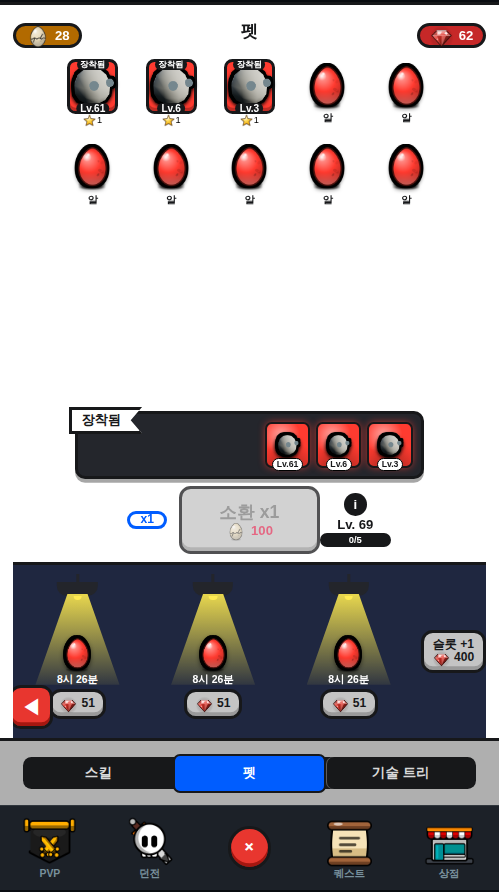
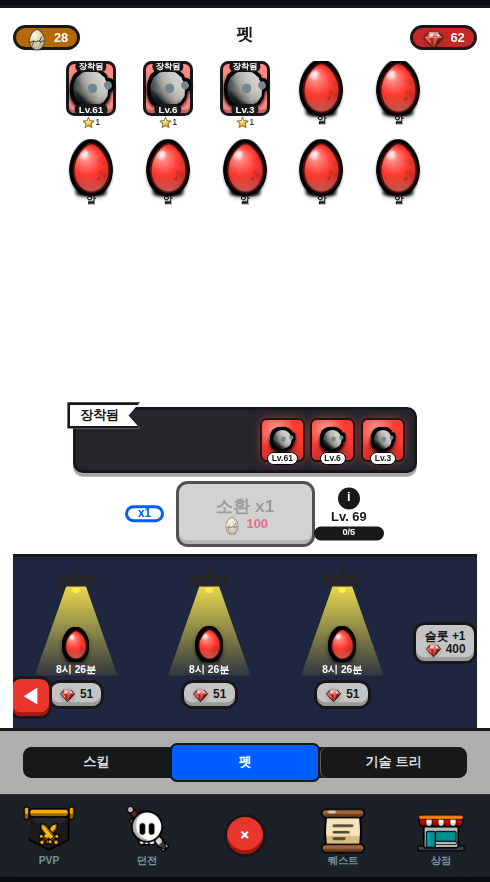
펫 화면 AAA 스킨 ⑪ — 타일 면을 등급색 원색에서 원본의 '등급색 60% + 흰색' 으로
원본 shot-042356 타일 면은 #ff7777 인데 같은 원본의 소환확률 팝업(shot-042521) '궁극의'
막대는 #ff1c1c 다 — 타일 면은 등급 원색이 아니라 60% + 흰색 40% 로 밝힌 색이고,
R·G·B 세 채널 모두 같은 계수로 떨어진다. 클론은 원색을 그대로 깔아 어두운 크리처가 묻혔다.
장비 셀이 이미 같은 방식(믹스 58%)이라 화풍도 일관된다.

남은 잔차(클론 #ff8983 vs 원본 #ff7777)는 RARITY_CSS 자체가 원본과 다른 탓이라
등급 6색 실측값을 새 QA 항목 rarity-css-exact 로 등재했다(원본 6색이 전부 한 채널 0x1c 로
떨어지는 규칙적 팔레트라 우연이 아니다).

회귀: probe-pets-dom.js 18요소 PASS 유지 · probe-screens-errors.js 31/31 콘솔 에러 0건.

Claude-Session: https://claude.ai/code/session_01HdN1cE1TqxDSVzRaZeswUW

diff --git a/web/css/style.css b/web/css/style.css
@@ -2807,7 +2807,12 @@ body {
 .pet-tile { background: none; border: none; padding: 0; cursor: pointer; display: flex; flex-direction: column; align-items: center; gap: .1rem; }
 .pet-tile .tile-face {
     position: relative; width: 100%; aspect-ratio: 1; border-radius: .5rem;
-    border: var(--ol3) solid var(--pp-line); background: var(--rc, #ccc);
+    border: var(--ol3) solid var(--pp-line);
+    /* 원본(shot-042356)의 타일 면은 **등급색 원색이 아니라 흰색을 섞어 밝힌 색**이다.
+       실측: 타일 면 #ff7777 vs 같은 원본의 소환확률 팝업(shot-042521) '궁극의' 막대 #ff1c1c
+       → R·G·B 세 채널 모두 정확히 **등급색 60% + 흰색 40%** 로 떨어진다(우연으로 보기 어렵다).
+       클론은 원색을 그대로 깔아 어두운 크리처가 배경에 묻혔다. 장비 셀도 이미 같은 방식(믹스 58%). */
+    background: color-mix(in srgb, var(--rc, #ccc) 60%, #fff);
     display: flex; align-items: center; justify-content: center; font-size: 1.4rem;
     box-shadow: inset 0 -.2rem 0 rgba(0,0,0,.25);
 }

diff --git a/web/TODO.md b/web/TODO.md
@@ -298,6 +298,7 @@
 
 ### 🐛 QA 발견 버그
 
+- [ ] **등급 6색이 원본 소환확률 팝업 실측값과 미세하게 다르다 — `RARITY_CSS` 를 원본 픽셀값으로 교체 (slug: rarity-css-exact)** (2026-08-18 `aaa-skin` ⑪ 펫 화면 작업 중 실측 발견, **비채점**): '등급/시대 색 전 화면 통일' 항목이 정한 기준은 **소환 확률 팝업에 표시된 색**인데, 그 팝업(원본 `shot-042521`)의 막대를 실제로 재 보니 클론 `RARITY_CSS` 와 채널마다 10~30 어긋난다. **원본 실측(막대 중앙 x=200)**: 일반 `#e0e0e0`(클론 `#d6d6d6`) · 희귀한 `#1cafff`(클론 `#29b6f6`) · 서사시 `#1cff41`(클론 `#3ddc50`) · 전설 `#f8ff1c`(클론 `#ffe93d`) · 궁극의 `#ff1c1c`(클론 `#ff3b30`) · 신화 `#aa1cff`(클론 `#b23dff`). 원본 6색이 전부 **한 채널이 0x1c** 로 떨어지는 규칙적인 팔레트라 우연이 아니다. **영향 범위가 넓다** — `RARITY_CSS` 는 스킬 오브·펫/탈것 타일·상세 카드·확률 팝업이 모두 쓰므로 화면마다 파생색(예: 펫 타일 면 = 등급색 60% + 흰색 40%)이 같이 움직인다. 그래서 **색만 바꾸고 끝내지 말고** 관련 화면을 다시 캡처해 파생색까지 확인할 것. **선행 조건**: `aaa-skin`·`ui-ratio-audit` 처럼 픽셀을 재는 항목과 같은 파일을 건드리므로 그 락이 비어 있을 때 잡을 것. **검증**: `tools/probe-tone.js` 로 ⑴ 확률 팝업 6막대가 원본값과 일치 ⑵ 펫 타일 면이 `#ff7777`(원본)에 수렴 ⑶ `probe-screens-errors.js` 31/31 콘솔 에러 0건.
 (2026-08-18 **QA 18차** 플레이 테스트 세션 — **신규 버그 0건**. Playwright 1.56.1 + `executablePath:'/opt/pw-browsers/chromium'`(build 1194) + `--use-gl=angle --enable-unsafe-swiftshader`, `file://` 구동, 주 뷰포트 430×860(앱 실측 430×764) + 320×568 · 360×640 · 390×844 · 1200×2133 교차, 프로브 15종·브라우저 런 25회. **수행 내역**: 새 세이브 부팅 후 30초 전투 5초 관찰(스폰 2→11·1-1→1-2 전진 정상) / 디버그 탭 재화 7종 +100000 **실버튼 클릭**·신화 알 +5·대장간 Lv+1 ×10·열쇠 리필·5-1 이동 / 하단 탭 6종 + 소환 서브탭 3종 / **팝업 25종 열고 닫기**(닫기 버튼 실클릭 + 닫힘 검증) / 제작 x1 [장착]·[판매] 양쪽 + 자동 제련 배치 / 스킬 소환 x1·x5·모두 업그레이드·빠른 장착·스킬 상세 강화(Lv1→2, dupes 11→9) / 펫 알 소환·알 상세→부화·젬 스킵·자연 부화·출전·업그레이드 팝업 / 탈것 소환 ×6·상세·업그레이드 / 기술 분기→노드→연구(🧪-50)→완료 / **던전 4종 입장 + 4종 소탕 + hammer 완주**(best 5→6·완료 시점 열쇠 1 소모) / **승천 6회 연속**(⭐1~6 — 전투력 `82.9ap`·체력 `267ap`까지 지수 표기 누출 0건) / 리그 도전 티켓 5→0 / 상점·퀘스트·패스 / 채팅 Enter 전송 + XSS 시도(`<img src=x onerror=…>` 이스케이프 정상) / 프로필 닉네임·아바타·성별·설정 / 오프라인 0.5·1·7·30·365·3650·100000일(4시간 cap) / **경쟁 조건 7종**(모루 10연타·제작 연출 중 탭 전환·던전 입장 5연타·던전 중 타던전 입장·연구 중복 시작·소환 5연타·모달 6개 중첩 후 탭바 ✕ 1회) / 재화 0 소모 액션 6종 / **히트테스트 35화면 × 2뷰포트** / **세로 뷰포트 3종 × 20화면 화면 밖 UI 검사** / 새로고침 세이브 유지. **결과: 콘솔 error/uncaught 0건, 화면 NaN/undefined/Infinity/[object Object] 0건, 무반응 버튼 0건, 음수 재화 0건, 화면 밖 UI 0건, 진행 불가 0건.** 저장소 검증기 회귀도 전부 통과 — `probe-screens-errors` 31/31 · `probe-quests` 28/28 · `probe-quest-gem` PASS · `probe-quest-deadlock` PASS · `probe-save-migrate` PASS(손상 세이브 7종) · `probe-navtabs` 18/18 · `node --check` 25파일.
 ⚠ **이 세션이 값 주고 배운 운영 교훈 1건 — 다음 QA는 첫 줄에 이것부터 하라: `git pull --rebase` 가 "Already up to date" 를 찍어도 `git branch -vv` 로 detached HEAD 인지 확인할 것.** 이 컨테이너는 **detached HEAD(`f75db21`)** 로 시작했고 `origin/main` 은 이미 50커밋 앞서 있었다(`ea0100b`). 그 낡은 스냅샷 위에서 테스트하는 바람에 **이미 고쳐진 `quest-gem-reward` 를 '신규 버그'로 재발견해 전부 재현·실측까지 마친 뒤에야**(젬 0→8→18, `Quests.roll()` 500회 중 젬 퀘스트 80회) 푸시 단계에서 중복임을 알았다. 최신 코드로 붙어 재검증하니 `probe-quest-gem` PASS(젬 수급 0건)로 이미 닫혀 있었다. **`git checkout -B main origin/main` 을 부팅 절차에 넣을 것.**)
 
@@ -1763,6 +1764,12 @@
   - 진행 메모(3D 스트림 세션, 2026-08-17 오후 — **비평가 B=6/10, 재수정 1회 반영, 여전히 [ ]**): 비평가 판정 결과 **원래 지적(영웅에 가려짐)은 해결됨** — pets-1/pets-3에서 3마리 전부 온전히 보인다고 확인받았다. 그런데 **탈것을 타면 탈것 다리·배가 펫을 다시 가린다**는 새 문제가 드러났다(3마리 중 2마리가 탈것 다리에 잘리고 1마리는 배 밑으로 들어감, 게다가 탈것과 같은 등급색 초록이라 실루엣이 한 덩어리로 붙었다). → 탈것 장착 중에는 펫 자리를 좌우로 벌리고 카메라 쪽으로 당기도록 분기(`refreshPets`의 `mounted` 스팟), `refreshMount` 끝에서 `refreshPets()`를 다시 불러 갈아탈 때도 따라오게 했다. 재촬영 결과 3마리 모두 탈것 풋프린트 밖으로 나왔다. **남은 것**: ① 걷기 구간에서 전경 나무에 펫이 가리는 프레임이 있다(pets-3-walk) — 배치가 아니라 프롭 배치와의 충돌이라 판단 필요 ② 펫과 탈것이 같은 등급색일 때 실루엣이 붙는 문제(등급색 규칙 자체는 의도된 것이라 림라이트/명도 대비로 끊는 쪽 권장) ③ 비평가 재판정 필요. 검증기: `tools/shot-ride-pets.js`가 pets-1 / pets-3 / pets-3-mount / pets-3-walk 4컷을 찍는다.
 - [ ] **스킬 이펙트 품질 업그레이드 — 현재 이펙트가 허접함**: 사용자 지적: 스킬 사용 시 연출(컷인/플래시 수준)이 조악하다. 스킬 18종의 발동 연출을 **AAA 모바일 3D 수준(POLISH.md 절대 기준)**으로 끌어올린다. 방향: ① 스킬 속성/컨셉별로 구분되는 전용 이펙트 — 예: 화살류=발사체 트레일+적중 파편, 화염류=파티클 불기둥+잔광 데칼, 번개류=지그재그 볼트 메시+화면 플래시, 버프류=영웅 주변 상승 파티클 링 ② 공통 강화 요소: 파티클 시스템(THREE.Points 또는 인스턴스드 스프라이트), 가산 블렌딩 글로우, 적중 순간 히트스톱/카메라 셰이크(과하지 않게), 스케일 팝 ③ 성능: 모바일 대상이므로 파티클 수 상한·풀링 사용, 저사양에서도 60fps 유지 ④ 기존 `Skills`/`Combat`/`Scene3D` 연결 구조는 유지하고 연출 레이어만 교체. 18종 전부를 한 런에 못 끝내면 스킬 몇 종씩 나눠 커밋하고 진행 메모를 남길 것. 검증: Playwright로 각 스킬 발동 순간 스크린샷 캡처 → 혹독한 비평가(Task 서브에이전트) 채점으로 '이펙트가 AAA 게임으로 믿을 만한가' 9/10 이상 통과제, 콘솔 에러 없음.
 - [ ] **전 화면 AAA 스킨 업그레이드 (화면당 커밋 하나, 재작업 목록 순서대로)**: 지금 UI는 원본 레이아웃 재현까지는 됐지만 비주얼이 원본 수준(플랫)에 머물러 있다. 화면별로: ① **레이아웃 검증** — 원본 shot을 Read로 열고 클론 스크린샷과 겹쳐 요소별 위치/크기/간격/폰트 비율이 어긋나지 않는지 확인, 어긋나면 먼저 교정 (레이아웃은 원본이 절대 기준 — 임의 변경 금지) ② **AAA 스킨** — 배치는 그대로 두고 표면 품질만 끌어올린다: 다층 그라디언트·미묘한 노이즈/텍스처, 버튼 입체감(하이라이트 엣지+아래턱+눌림 상태), 카드 깊이(레이어드 그림자·앰비언트 글로우), 등급색 보석/금속 질감, 아이콘 정제(이모지 그대로 두더라도 배경 배지·림 라이트로 고급화), 타이포 위계(굵기·자간·외곽선 정리), 게이지 광택/애니메이션, 팝업 등장 트랜지션(스케일+페이드 이징) ③ 성능: CSS 위주(대형 blur 남용 금지), 60fps 유지 ④ 검증: 비평가(Task 서브에이전트) 이중 채점 — (a) 레이아웃이 원본 스크린샷과 비율까지 일치하는가 (b) 비주얼이 'AAA 모바일 게임 UI 스크린샷으로 믿을 수 있는가' 절대 기준 10점 중 9점 이상, 둘 다 통과해야 커밋. 대상 화면 목록은 위 'UI 레이아웃 전면 재작업' 섹션의 재작업 체크리스트(17개 화면 + 통과 화면들)를 그대로 재사용하고, 화면마다 진행 메모를 남길 것.
+  - **진행 메모 ⑪ 펫 화면 (UI 스트림, 2026-08-18 03:3x~04:0x — 재작업 목록 11번 화면. 항목은 [ ] 유지, 비평가 채점 미실시)**: 원본 `shot-042356` 대조. 락 슬러그 `aaa-skin`. **비율은 이 세션이 `ui-ratio-audit` 쪽에서 이미 맞춰 뒀다(18요소 통과)** — 여기서는 ② 스킨만.
+    - ② **타일 면이 등급 원색이라 크리처가 배경에 묻혔다.** 원본 타일 면은 **#ff7777** 인데 같은 원본의 소환확률 팝업(`shot-042521`) '궁극의' 막대는 **#ff1c1c** 다 — 즉 타일 면은 등급색 원색이 아니라 **등급색 60% + 흰색 40%** 로 밝힌 색이다(R·G·B 세 채널 모두 f=0.60 으로 떨어져 우연으로 보기 어렵다). 클론은 `var(--rc)` 원색을 그대로 깔고 있었다 → `color-mix(in srgb, var(--rc) 60%, #fff)` 로 교체. 장비 셀이 이미 같은 방식(믹스 58%)이라 화풍도 일관된다. 교체 후 클론 타일 면 실측 **#ff8983**.
+    - ⚠ **남은 차이 #ff8983 vs 원본 #ff7777 은 이 화면 탓이 아니다** — 우리 `RARITY_CSS.ultimate` 이 `#ff3b30` 이고 원본은 `#ff1c1c` 라서다. 등급 6색 전체가 원본과 미세하게 다른 것을 실측해 **새 QA 항목 `rarity-css-exact`** 로 등재했다(🐛 QA 섹션). 그 항목을 처리하면 이 잔차도 같이 사라진다.
+    - ⚠ **3D 펫 썸네일이 타일을 거의 꽉 채운다** — 가로 단면(y=78)에서 타일 66~116px 중 크리처가 x72 부터 시작한다. 원본은 크리처 둘레로 살구색 여백이 넉넉히 남는다. **썸네일 프레이밍은 3D 스트림 소관**이라 손대지 않았다.
+    - **회귀**: `probe-pets-dom.js` 18요소 **PASS 유지**(색 변경이라 레이아웃 영향 없음 확인) · `probe-screens-errors.js` **31/31 화면 콘솔 에러 0건**.
+    - 📌 **다음 세션이 이어받을 것** — ⓐ **이 화면의 비평가 2인 채점(미실시)**. ⓑ 다음 화면은 재작업 목록 **⑫ 펫 상세 팝업(shot-042449)**.
   - **진행 메모 ⑩ 기술 분기 상세 (UI 스트림, 2026-08-18 03:0x~03:3x — 재작업 목록 10번 화면. 항목은 [ ] 유지, 비평가 채점 미실시)**: 원본 `shot-042546`(505×890) 한 장 대조. 락 슬러그 `aaa-skin`.
     - 🚨 **먼저 캡처 상태를 고쳤다 — 안 고쳤으면 색 대조 자체가 불가능했다.** 원본은 앞쪽 노드 **7개가 1/5 로 올라간** 상태(7번째에 '13시 30분' 연구 배지)인데, 시드는 `S.tech` 가 비어 **전부 0/5(회색)** 이라 클론 캡처에는 원본의 브론즈 원반이 **하나도 없었다**. `shot-screens.js` 의 `tech-branch` 오프너에 원본과 같은 진행도를 주입했다(펫·스킬 상세와 같은 계열의 상태 정합).
     - ② **스킨 2건, 원본 픽셀 실측 기반**:
